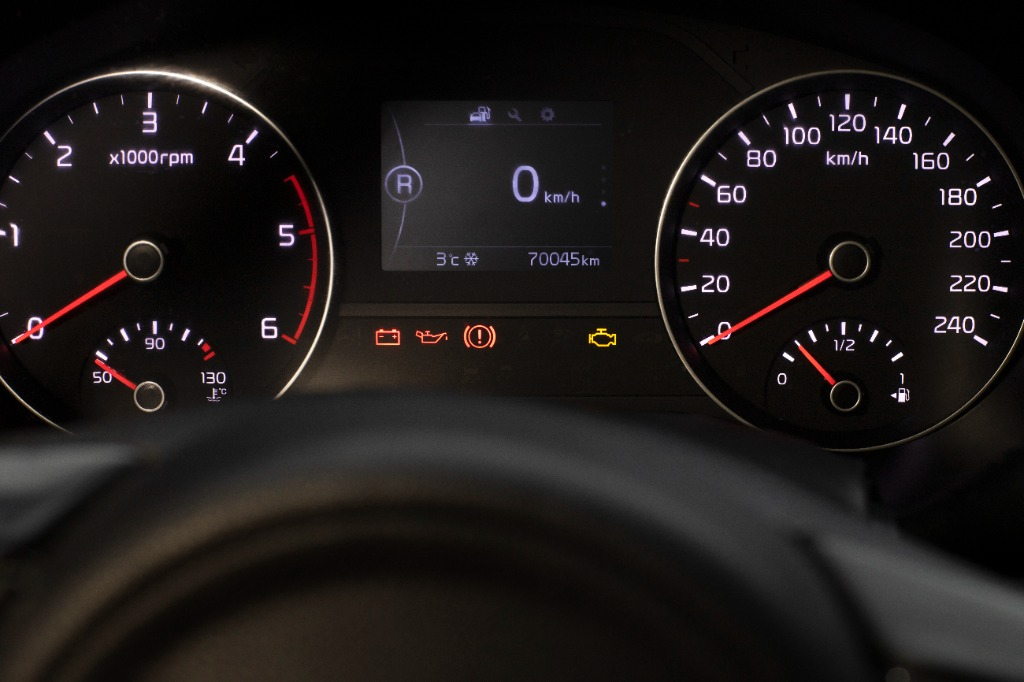
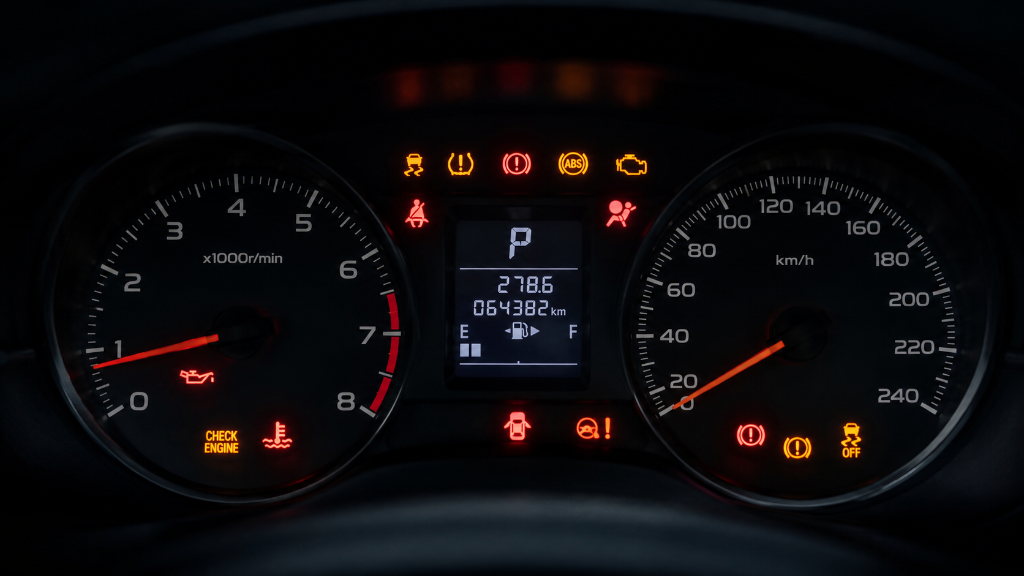
Update hero image and adjust CSS for better visibility of dashboard lights

diff --git a/style.css b/style.css
@@ -239,12 +239,14 @@ section {
 
 /* Pre-Hero */
 .pre-hero {
-    padding: 140px 0 100px;
+    padding: 160px 0 120px;
     text-align: center;
     position: relative;
-    background-image: linear-gradient(rgba(1, 4, 19, 0.65), rgba(1, 4, 19, 0.95)), url('hero.png');
+    background-image: 
+        radial-gradient(circle at center, rgba(1, 4, 19, 0.3) 0%, rgba(1, 4, 19, 0.85) 100%), 
+        url('hero.png');
     background-size: cover;
-    background-position: center;
+    background-position: center 20%;
     overflow: hidden;
 }
 